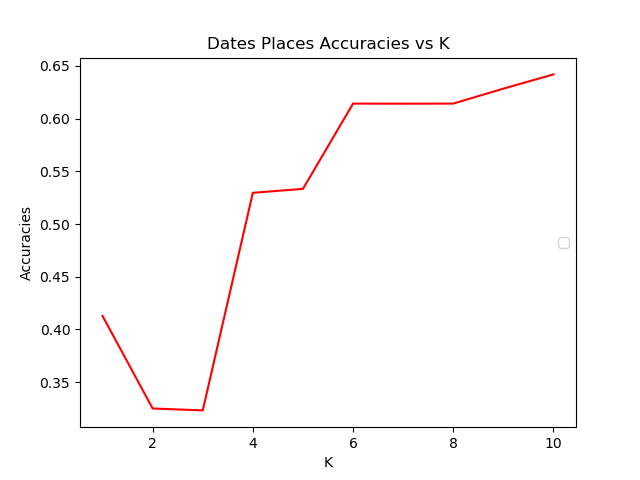
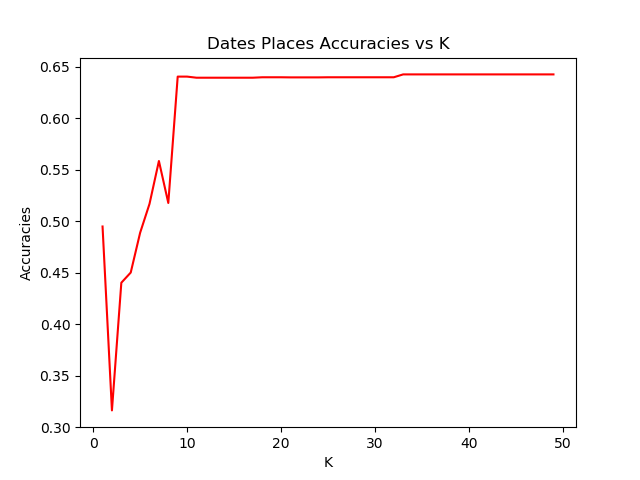
upped k hyper parameterization to 50

diff --git a/classify.py b/classify.py
@@ -75,7 +75,7 @@ def classifyTitlesTopics(topics_train_data,topics_train_labels,topics_test_data,
 	topics_X = topics_vectorizer.fit_transform(topics_train_data)
 	topics_Y= topics_vectorizer.transform(topics_test_data)
 
-	neigh = KNeighborsClassifier(n_neighbors=2)
+	neigh = KNeighborsClassifier(n_neighbors=1)
 	neigh.fit(topics_X, topics_train_labels)
 	
 	topics_prob_labels=neigh.predict_proba(topics_Y)
@@ -87,7 +87,7 @@ def classifyDatelinesPlaces(places_train_data,places_train_labels,places_test_da
 	places_X = places_vectorizer.fit_transform(places_train_data)
 	places_Y= places_vectorizer.transform(places_test_data)
 
-	neigh = KNeighborsClassifier(n_neighbors=10)
+	neigh = KNeighborsClassifier(n_neighbors=27)
 	neigh.fit(places_X, places_train_labels)
 	
 	places_predicted_labels=neigh.predict(places_Y)
@@ -144,19 +144,19 @@ def main():
 	places_datelines_prob,datelines_labels=classifyDatelinesPlaces(train_datelines,places_train_labels,test_datelines,places_test_labels)
 	
 	print('training places and bodies')
-	places_bodies_prob=classifyTopicsPlaces(train_places_body,places_train_labels,test_places_body,places_test_labels,10)
+	places_bodies_prob=classifyTopicsPlaces(train_places_body,places_train_labels,test_places_body,places_test_labels,13)
 	
 	print('training places and people')
-	places_people_prob=classifyTopicsPlaces(train_places_people,places_train_labels,test_places_people,places_test_labels,6)
+	places_people_prob=classifyTopicsPlaces(train_places_people,places_train_labels,test_places_people,places_test_labels,13)
 	
 	print('training places and orgs')
-	places_orgs_prob=classifyTopicsPlaces(train_places_orgs,places_train_labels,test_places_orgs,places_test_labels,1)
+	places_orgs_prob=classifyTopicsPlaces(train_places_orgs,places_train_labels,test_places_orgs,places_test_labels,13)
 	
 	print('training places and dates')
-	places_dates_prob=classifyTopicsPlaces(train_places_dates,places_train_labels,test_places_dates,places_test_labels,10)
+	places_dates_prob=classifyTopicsPlaces(train_places_dates,places_train_labels,test_places_dates,places_test_labels,13)
 	
 	print('training places and exchanges')
-	places_exchanges_prob=classifyTopicsPlaces(train_places_exchanges,places_train_labels,test_places_exchanges,places_test_labels,2)
+	places_exchanges_prob=classifyTopicsPlaces(train_places_exchanges,places_train_labels,test_places_exchanges,places_test_labels,13)
 	
 	
 	sorted_places_labels=sorted(datelines_labels)
@@ -188,13 +188,13 @@ def main():
 	topics_people_prob=classifyTopicsPlaces(train_topics_people,topics_train_labels,test_topics_people,topics_test_labels,1)
 	
 	print('training topics and orgs')
-	topics_orgs_prob=classifyTopicsPlaces(train_topics_orgs,topics_train_labels,test_topics_orgs,topics_test_labels,7)
+	topics_orgs_prob=classifyTopicsPlaces(train_topics_orgs,topics_train_labels,test_topics_orgs,topics_test_labels,21)
 	
 	print('training topics and dates')
-	topics_dates_prob=classifyTopicsPlaces(train_topics_dates,topics_train_labels,test_topics_dates,topics_test_labels,9)
+	topics_dates_prob=classifyTopicsPlaces(train_topics_dates,topics_train_labels,test_topics_dates,topics_test_labels,31)
 	
 	print('training topics and exchanges')
-	topics_exchanges_prob=classifyTopicsPlaces(train_topics_exchanges,topics_train_labels,test_topics_exchanges,topics_test_labels,2)
+	topics_exchanges_prob=classifyTopicsPlaces(train_topics_exchanges,topics_train_labels,test_topics_exchanges,topics_test_labels,5)
 	
 	
 	sorted_topics_labels=sorted(titles_labels)

diff --git a/get_classify.py b/get_classify.py
@@ -51,7 +51,7 @@ def classifyTopicsPlaces(train_data,train_labels,test_data,test_labels,k):
    print(accuracy_score(predicted_labels, test_labels))
 
 def get_accuracies(type,train_data,train_labels,test_data,test_labels):
-	K=[1,2,3,4,5,6,7,8,9,10]
+	K=list(range(1,50))
 	accuracies=[]
 	vectorizer = CountVectorizer()
 	X = vectorizer.fit_transform(train_data)
@@ -70,19 +70,21 @@ def get_accuracies(type,train_data,train_labels,test_data,test_labels):
 	return accuracies
 	
 def plot(type,accuracies):
-	if(type=='places'):
-		plt.plot([1,2,3,4,5,6,7,8,9,10],accuracies['datelines'], '-', color='blue', label='datelines')
+	K=list(range(1,50))
+	if(type=='Places'):
+		plt.plot(K,accuracies['datelines'], '-', color='blue', label='datelines')
 	else:
-		plt.plot([1,2,3,4,5,6,7,8,9,10],accuracies['titles'], '-', color='blue', label='titles')
-	plt.plot([1,2,3,4,5,6,7,8,9,10],accuracies['bodies'], '-', color='red', label='bodies')
-	plt.plot([1,2,3,4,5,6,7,8,9,10],accuracies['orgs'], '-', color='yellow', label='orgs')
-	plt.plot([1,2,3,4,5,6,7,8,9,10],accuracies['people'], '-', color='green', label='people')
-	plt.plot([1,2,3,4,5,6,7,8,9,10],accuracies['exchanges'], '-', color='magenta', label='exchanges')
-	plt.plot([1,2,3,4,5,6,7,8,9,10],accuracies['dates'], '-', color='cyan', label='dates')
+		plt.plot(K,accuracies['titles'], '-', color='blue', label='titles')
+	
+	plt.plot(K,accuracies['bodies'], '-', color='red', label='bodies')
+	plt.plot(K,accuracies['orgs'], '-', color='yellow', label='orgs')
+	plt.plot(K,accuracies['people'], '-', color='green', label='people')
+	plt.plot(K,accuracies['exchanges'], '-', color='magenta', label='exchanges')
+	plt.plot(K,accuracies['dates'], '-', color='cyan', label='dates')
 	title=type+ ' Accuracies vs K'
 	plt.title(title)
 	plt.xlabel('K')
-	plt.ylabel('Accuracies')
+	plt.ylabel('Testing Accuracies')
 	plt.legend(loc='center right')
 	plt.show()
 
@@ -113,7 +115,7 @@ def main():
 	# classifyTopicsPlaces(exchanges_train_data,exchanges_train_labels,exchanges_test_data,exchanges_test_labels,6)
 	places_accuracies['exchanges']=get_accuracies('Exchanges Places',exchanges_train_data,exchanges_train_labels,exchanges_test_data,exchanges_test_labels)
 
-	print('places and dates')
+	print('places and dates') 
 	dates_data,dates_labels=get_data('reduced_data/reduced_dates.out','reduced_data/places_labels.out')
 	dates_train_data,dates_train_labels,dates_test_data,dates_test_labels=random_sample(int(np.floor(0.80*len(dates_data))),dates_data,dates_labels)
 	# classifyTopicsPlaces(dates_train_data,dates_train_labels,dates_test_data,dates_test_labels,6)
@@ -125,7 +127,7 @@ def main():
 	# classifyTopicsPlaces(bodies_train_data,bodies_train_labels,bodies_test_data,bodies_test_labels,6)
 	places_accuracies['people']=get_accuracies('People Places',people_train_data,people_train_labels,people_test_data,people_test_labels)
 
-	plot('places',places_accuracies)
+	plot('Places',places_accuracies)
 
 	topics_accuracies={}
 	print('topics and titles')
